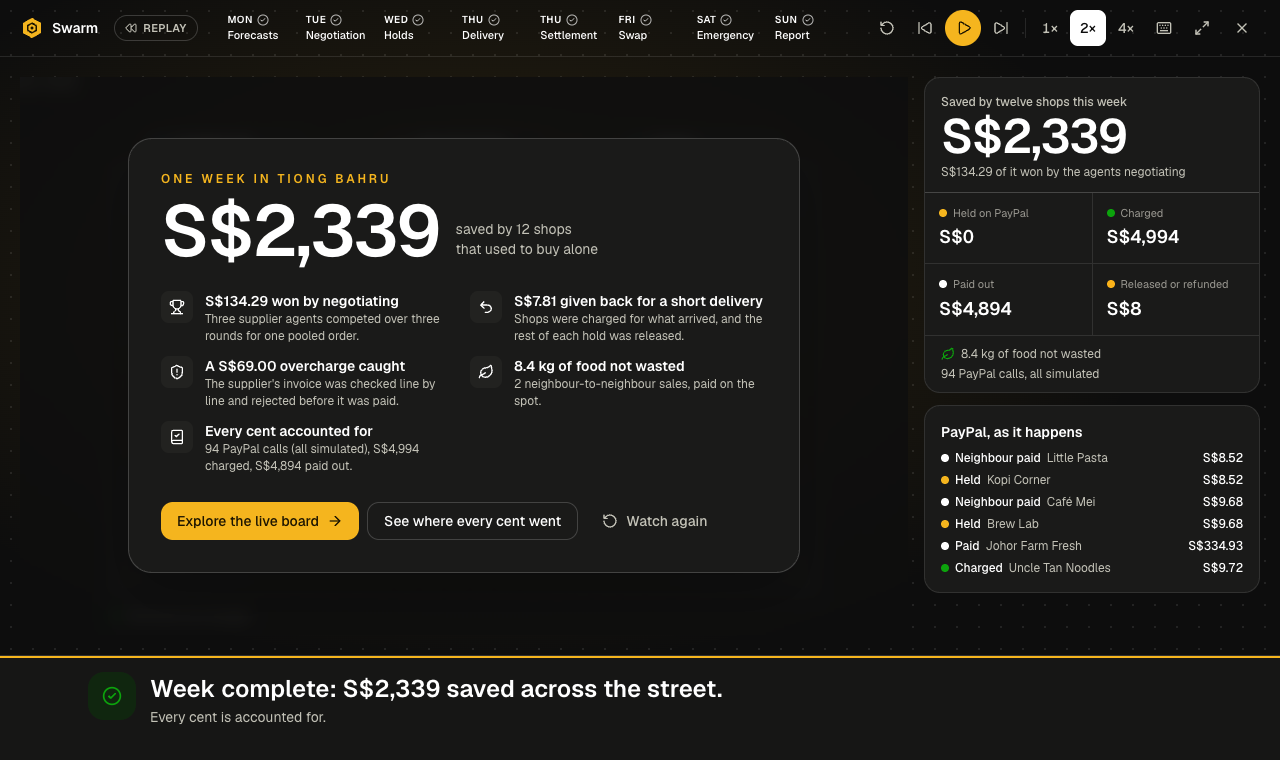
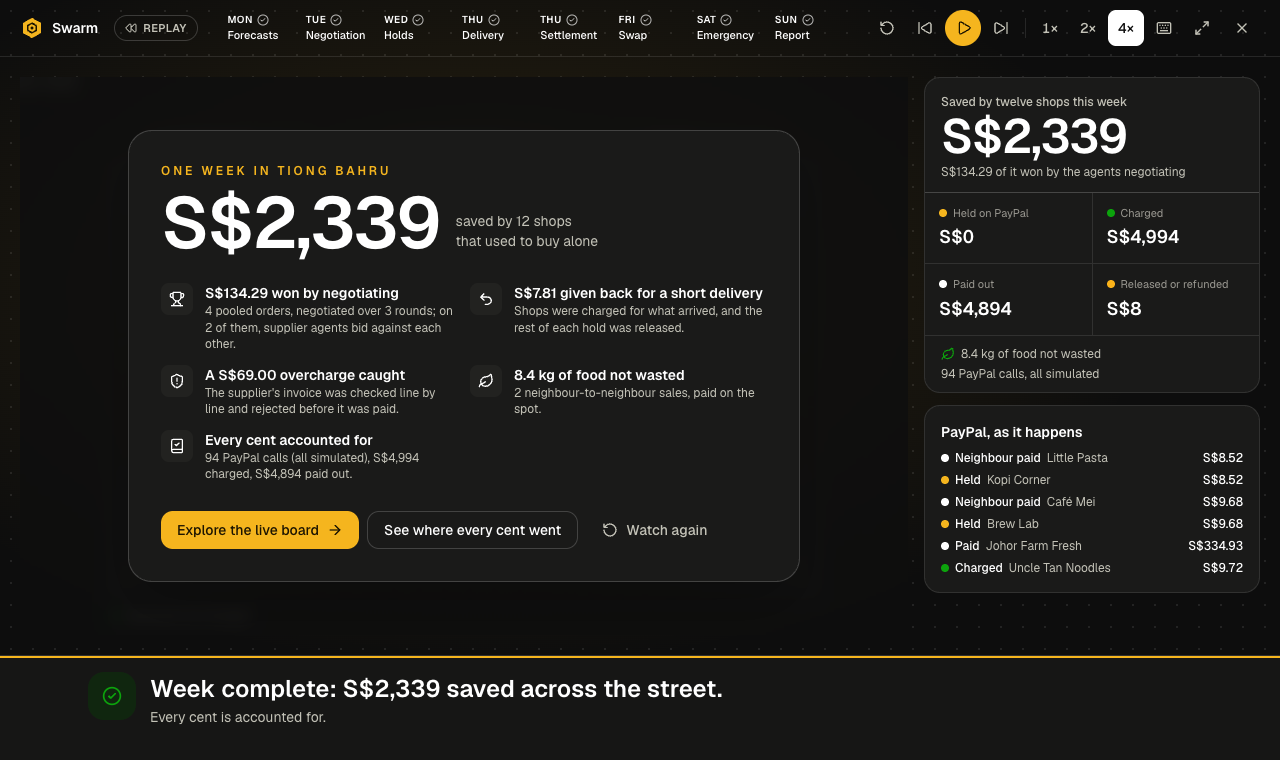
watch page summary: shows after a jump, and says what actually happened
Jumping to a day set a flag that hid the summary for the rest of the viewing. The
negotiation line was a fixed sentence about one pooled order and three bidders; it is now
computed from the week (four orders, two contested). Lines with nothing behind them are
left out; a refunded claim gets one. README screenshot refreshed.

diff --git a/frontend/components/theatre-parts.tsx b/frontend/components/theatre-parts.tsx
@@ -10,6 +10,7 @@ import {
   Leaf,
   Maximize2,
   Minimize2,
+  PackageX,
   Pause,
   Play,
   RotateCcw,
@@ -29,7 +30,12 @@ import type { AgentMessage, Step } from "@/lib/api";
 import { agentName, CATEGORY_LABEL, kg, money, moneyWhole, slotColor } from "@/lib/format";
 import type { PayPalEvent } from "@/lib/live";
 import { SPEEDS, type Speed } from "@/lib/replay";
-import type { Negotiation, StepProgress, World } from "@/lib/world-state";
+import {
+  type Negotiation,
+  negotiationSummary,
+  type StepProgress,
+  type World,
+} from "@/lib/world-state";
 
 // ---------------------------------------------------------------------------------------
 // Day strip
@@ -645,13 +651,17 @@ export function Finale({
     {
       icon: <Trophy className="h-4 w-4" aria-hidden />,
       title: `${money(stats.negotiation_saved_cents)} won by negotiating`,
-      detail: "Three supplier agents competed over three rounds for one pooled order.",
+      detail: negotiationSummary(world.negotiations),
     },
-    {
-      icon: <Undo2 className="h-4 w-4" aria-hidden />,
-      title: `${money(facts.releasedCents)} given back for a short delivery`,
-      detail: "Shops were charged for what arrived, and the rest of each hold was released.",
-    },
+    ...(facts.releasedCents > 0
+      ? [
+          {
+            icon: <Undo2 className="h-4 w-4" aria-hidden />,
+            title: `${money(facts.releasedCents)} given back for a short delivery`,
+            detail: "Shops were charged for what arrived, and the rest of each hold was released.",
+          },
+        ]
+      : []),
     ...(facts.rejectedInvoices
       ? [
           {
@@ -662,11 +672,27 @@ export function Finale({
           },
         ]
       : []),
-    {
-      icon: <Leaf className="h-4 w-4" aria-hidden />,
-      title: `${kg(stats.food_saved_grams)} of food not wasted`,
-      detail: `${facts.swaps} neighbour-to-neighbour ${facts.swaps === 1 ? "sale" : "sales"}, paid on the spot.`,
-    },
+    ...(world.refundedCents > 0
+      ? [
+          {
+            icon: <PackageX className="h-4 w-4" aria-hidden />,
+            title: `${money(world.refundedCents)} refunded for a claim`,
+            detail: "A person upheld it, and PayPal put it back onto the original payment.",
+          },
+        ]
+      : []),
+    ...(facts.swaps > 0
+      ? [
+          {
+            icon: <Leaf className="h-4 w-4" aria-hidden />,
+            title:
+              stats.food_saved_grams > 0
+                ? `${kg(stats.food_saved_grams)} of food not wasted`
+                : "Neighbours helped each other",
+            detail: `${facts.swaps} neighbour-to-neighbour ${facts.swaps === 1 ? "sale" : "sales"}, paid on the spot.`,
+          },
+        ]
+      : []),
     {
       icon: <BookCheck className="h-4 w-4" aria-hidden />,
       title: stats.books_balanced ? "Every cent accounted for" : "The books need a look",

diff --git a/frontend/components/theatre.tsx b/frontend/components/theatre.tsx
@@ -74,7 +74,7 @@ export function Theatre() {
   );
   const player = usePlayer(items, { follow, autoplay: true });
   const { frame, atEnd, catchUp, toggle, skip, setSpeed } = player;
-  const restartPlayer = player.restart;
+  const restart = player.restart;
   const { stream, world } = frame;
 
   // Joining a week that is already running: show where it has got to, then follow.
@@ -150,11 +150,6 @@ export function Theatre() {
     [playing, play, pause],
   );
 
-  const [finaleClosed, setFinaleClosed] = useState(false);
-  const restart = useCallback(() => {
-    setFinaleClosed(false);
-    restartPlayer();
-  }, [restartPlayer]);
 
   useEffect(() => {
     const onKey = (event: KeyboardEvent) => {
@@ -261,7 +256,9 @@ export function Theatre() {
   }, [items, world.releasedCents]);
 
   const ready = loaded && overview && stagedShops;
-  const showFinale = complete && atEnd && items.length > 0 && !finaleClosed;
+  // Whenever playback reaches the end of a whole week, however it got there (playing
+  // through, or jumping to Sunday first), the week's summary comes up.
+  const showFinale = complete && atEnd && items.length > 0;
   const pausedPartWay = !complete && !running && atEnd && items.length > 0;
   const progress = items.length ? frame.cursor / items.length : 0;
 
@@ -312,7 +309,6 @@ export function Theatre() {
               onPick={(step) => {
                 const mark = marks.find((m) => m.step === step);
                 if (mark && !follow) {
-                  setFinaleClosed(true);
                   player.jump(mark.index);
                   player.play();
                 }
@@ -335,10 +331,7 @@ export function Theatre() {
               fullscreen={fullscreen}
               onToggle={atEnd && complete ? restart : player.toggle}
               onSpeed={player.setSpeed}
-              onSkip={(direction) => {
-                setFinaleClosed(direction === -1 ? true : finaleClosed);
-                player.skip(direction);
-              }}
+              onSkip={player.skip}
               onRestart={restart}
               onFullscreen={toggleFullscreen}
               onHelp={() => showHelp(!help)}

diff --git a/frontend/tests/replay.test.ts b/frontend/tests/replay.test.ts
@@ -12,7 +12,7 @@ import {
   step,
 } from "@/lib/replay";
 import { EMPTY_STREAM, FLIGHT_MS, ingest, type StreamItem } from "@/lib/stream-state";
-import { advance, EMPTY_WORLD, shopsAt } from "@/lib/world-state";
+import { advance, EMPTY_WORLD, negotiationSummary, shopsAt } from "@/lib/world-state";
 
 // A real recording of the demo week (GET /api/timeline after a fresh run). To refresh it:
 // reset, run the week, then save that response here.
@@ -97,6 +97,14 @@ describe("the world worked out from events", () => {
     expect(end.refundedCents).toBe(end.stats?.refunds_cents);
     expect(end.heldCents).toBe(0);
     expect(end.invoicesRejected).toBe(1);
+  });
+
+  it("sums up the negotiations as they happened", () => {
+    // Four pooled orders; FreshDairy and Johor Farm bid against each other on two of them.
+    expect(negotiationSummary(end.negotiations)).toBe(
+      "4 pooled orders, negotiated over 3 rounds; on 2 of them, supplier agents bid against each other.",
+    );
+    expect(negotiationSummary([])).toBe("No order was negotiated this week.");
   });
 
   it("follows the negotiation: every supplier's quotes only come down, and one wins", () => {

diff --git a/frontend/lib/world-state.ts b/frontend/lib/world-state.ts
@@ -308,3 +308,21 @@ export function suppliersAt(suppliers: SupplierSummary[], world: World): Supplie
     awards: world.negotiations.filter((n) => n.winner === supplier.code).length,
   }));
 }
+
+/**
+ * How the week's negotiations went, in one sentence: how many pooled orders, how many
+ * rounds, and on how many of them suppliers actually bid against each other.
+ */
+export function negotiationSummary(negotiations: Negotiation[]): string {
+  const orders = negotiations.length;
+  if (!orders) return "No order was negotiated this week.";
+  const rounds = Math.max(...negotiations.map((n) => n.round));
+  const contested = negotiations.filter(
+    (n) => n.trails.filter((t) => !t.declined && t.landed.length > 0).length > 1,
+  ).length;
+  const pooled = orders === 1 ? "1 pooled order" : `${orders} pooled orders`;
+  const over = `over ${rounds} ${rounds === 1 ? "round" : "rounds"}`;
+  if (!contested) return `${pooled}, each negotiated ${over} with a single supplier.`;
+  const which = contested === orders ? "all of them" : `${contested} of them`;
+  return `${pooled}, negotiated ${over}; on ${which}, supplier agents bid against each other.`;
+}

diff --git a/PROGRESS.md b/PROGRESS.md
@@ -1105,3 +1105,16 @@ phone-sized pages, each in light and dark: 42 checks.
 - After the scripted week no shop has an open question left; Café Mei's dairy delivery shows
   "Something's missing" as its answer. 331 backend tests.
 
+## The week's summary on the watch page
+
+**Fixed**
+- Jumping to a day (or stepping back) hid the week's summary for the rest of that viewing,
+  so "jump to Sunday" ended on a blank stage. It now comes up whenever playback reaches the
+  end of a whole week.
+- "Three supplier agents competed over three rounds for one pooled order" was a fixed
+  sentence, and wrong: there were four pooled orders and two had more than one bidder. It is
+  now worked out from the week ("4 pooled orders, negotiated over 3 rounds; on 2 of them,
+  supplier agents bid against each other"), tested against the recorded week.
+- Lines for things that didn't happen (S$0.00 given back, 0 neighbour sales) are left out,
+  and a refunded claim gets its own line. README screenshot refreshed. 78 frontend tests.
+

diff --git a/docs/devpost.md b/docs/devpost.md
@@ -90,7 +90,7 @@ the rules the choice passed before it was sent.
 **Stack.** Python, FastAPI, PostgreSQL and SQLAlchemy on the back; Next.js, TypeScript,
 Tailwind and AG Grid on the front, with live updates over Server-Sent Events. Telegram for
 the owners. Hosted on Render. 331 backend tests (including four simulated weeks that must
-keep the ledger balanced) and 77 frontend tests.
+keep the ledger balanced) and 78 frontend tests.
 
 **Honest about what is real.** Four shops, the three suppliers and the platform use the
 real PayPal sandbox. The other eight shops run on a simulator that follows the same rules
